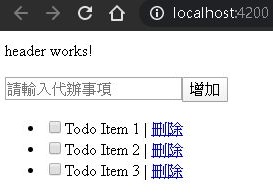
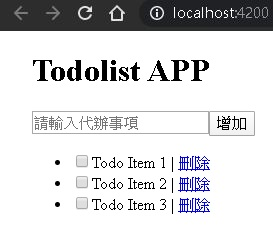
C

diff --git a/StudyProject/todolist1/src/app/header/header.component.html b/StudyProject/todolist1/src/app/header/header.component.html
@@ -1,1 +1,1 @@
-<p>header works!</p>
+<h1>Todolist APP</h1>

diff --git a/StudyProject/README.md b/StudyProject/README.md
@@ -141,7 +141,9 @@ Component內屬性綁定selector、template、style。
 
 並藉由 import、export 引入傳遞資料與引入其他 Component 或 Module 。
 
----------------------------------------
+
+#Component 元件化
+
 @Component
 
 > selector: 用來表示在 HTML 上的哪個 element 要套用這個 component 。
@@ -227,3 +229,7 @@ header.component.ts 內寫的 selector &lt;app-header&gt;&lt;/app-header&gt;
 > ng serve 即可看到 app 內容
 
 ![](https://github.com/johch3n611u/Side-Project-Self-Brand-Image-Web/blob/master/StudyProject/img/7.JPG)
+
+#Data Binding
+
+![](https://github.com/johch3n611u/Side-Project-Self-Brand-Image-Web/blob/master/StudyProject/img/8.JPG)
